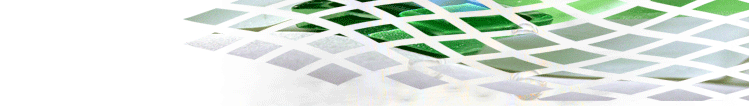
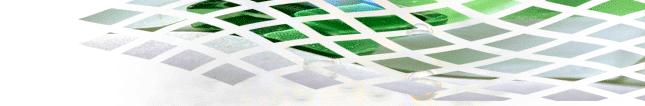
new theme changes
svn path=/trunk/e107_0.7/; revision=6430

diff --git a/e107_themes/reline/style.css b/e107_themes/reline/style.css
@@ -128,9 +128,6 @@ table {
 	border-right: 1px solid #126CA3;
 	border-bottom: 1px solid #126CA3;
 	margin-left: 0px;
-	background-image: url(images/header.png);
-	background-repeat: no-repeat;
-	background-position: top right;
 }
 
 .collapse {

diff --git a/e107_themes/reline/theme.php b/e107_themes/reline/theme.php
@@ -11,8 +11,8 @@
 |     GNU General Public License (http://gnu.org).
 |
 |     $Source: /cvs_backup/e107_0.7/e107_themes/reline/theme.php,v $
-|     $Revision: 1.5 $
-|     $Date: 2006-04-25 09:16:26 $
+|     $Revision: 1.6 $
+|     $Date: 2006-04-25 12:03:18 $
 |     $Author: sweetas $
 +----------------------------------------------------------------------------+
 */
@@ -69,33 +69,11 @@ $no_core_css = TRUE;
 
 // Output into <head> section.
 // Anything echoed from within the theme_head() function gets outputted into the <head> of your page.
+// Uncomment the following three lines to use.
 
-function theme_head() {
-		echo "<script type='text/javascript'>
-<!--
-Behaviour._apply = Behaviour.apply;
-	Behaviour.apply = function() {
-	if (this.applied) return;
-	this.applied = true;
-	this._apply();
-	};
-	if (document.addEventListener) {
-		document.addEventListener(\"DOMContentLoaded\", function() {
-		Behaviour.apply();
-		}, false);
-		}
-		//-->
-</script>
-	";
-	
-	// include behaviour script to fix alpha transparency on logo (If you delete the e107 logo from
-	// the $HEADER section then you should delete this too.
-	echo "<style type='text/css'><!--\n";
-	echo ".alpha_logo { behavior: url(".e_FILE."pngbehavior.php); }\n";
-	echo "--></style>\n";
-	
-
-}
+//function theme_head() {
+//	echo "<script></script>";
+//}
 
 
 // Header and footer templates for the body of your site.
@@ -120,8 +98,14 @@ Behaviour._apply = Behaviour.apply;
 // Main header
 $HEADER = "<table class='top_section'>
 <tr>
-<td style='height: 106px' colspan='2'>
+<td style='height: 106px'>
 <img src='".e_IMAGE."advanced.png' style='width: 145px; height: 90px; display: block; margin-left: 4px' alt='' />
+</td>
+
+<td style='height: 106px; 	background-image: url(".THEME_ABS."images/header.png);
+	background-repeat: no-repeat;
+	background-position: top left;'>
+<img src='".THEME_ABS."images/logo.png' style='width: 347px; height: 106px; display: block' alt='' />
 </td>
 </tr>
 
@@ -159,7 +143,7 @@ $HEADER = "<table class='top_section'>
 <tr>
 <td style='color: #fff; padding-right: 5px; width: 100%; vertical-align: top'>
 <div style='position: relative; left: 0; top: 0'>
-<img class='alpha_logo' src='".THEME_ABS."images/logo.png' style='position: absolute; top: -111px; left: -49px; width: 373px; height: 143px; display: block' alt='' />
+<img class='alpha_logo' src='".THEME_ABS."images/cube.png' style='position: absolute; top: -76px; left: -49px; width: 96px; height: 108px; display: block' alt='' />
 </div>
 {SITELINKS_ALT=no_icons+noclick}
 </td>
